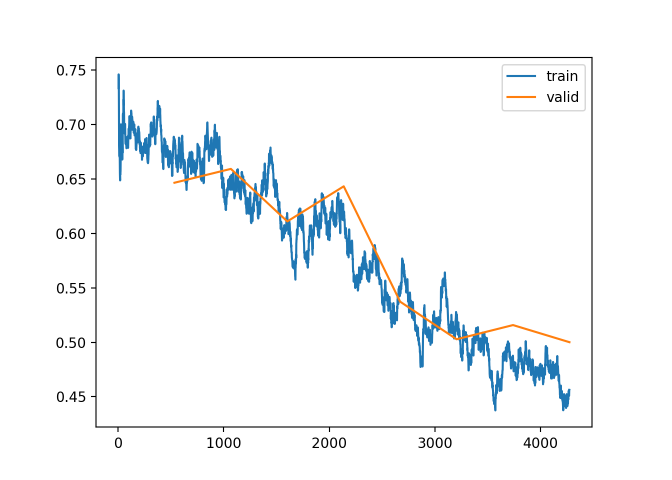
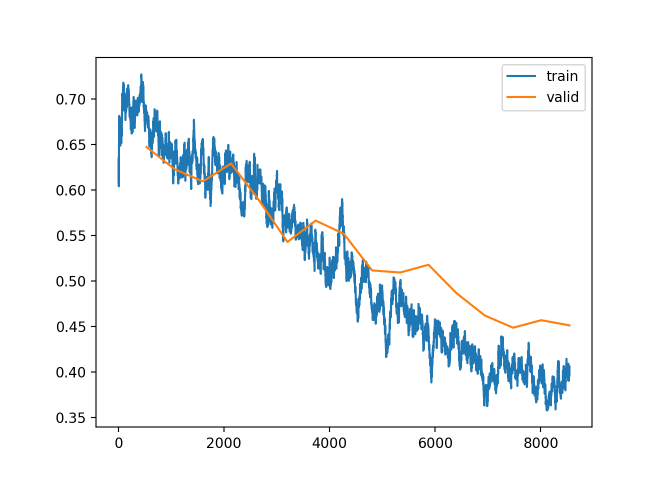
bug fastai

diff --git a/Xresnet.md b/Xresnet.md
@@ -1,7 +1,7 @@
-Xresnet
+Bug export
 ================
 
-# Resnext with R
+# Xresnet with R
 
 ``` r
 # This R environment comes with many helpful analytics packages installed
@@ -37,7 +37,24 @@ list.files(path = "../input")
 ```
 
 ``` r
-#devtools::install_github("henry090/fastai",dependencies=FALSE)
+devtools::install_github("henry090/fastai",dependencies=FALSE)
+```
+
+    ## Downloading GitHub repo henry090/fastai@HEAD
+
+    ##      checking for file ‘/tmp/RtmpdO4umF/remotesca1f0d394c/henry090-fastai-92744cf/DESCRIPTION’ ...  ✓  checking for file ‘/tmp/RtmpdO4umF/remotesca1f0d394c/henry090-fastai-92744cf/DESCRIPTION’
+    ##   ─  preparing ‘fastai’:
+    ##    checking DESCRIPTION meta-information ...  ✓  checking DESCRIPTION meta-information
+    ##   ─  checking for LF line-endings in source and make files and shell scripts (421ms)
+    ##   ─  checking for empty or unneeded directories
+    ##   ─  building ‘fastai_2.0.4.tar.gz’
+    ##      
+    ## 
+
+    ## Installing package into '/home/erolland/R/x86_64-pc-linux-gnu-library/4.0'
+    ## (as 'lib' is unspecified)
+
+``` r
 #fastai::install_fastai(gpu = TRUE)
 ```
 
@@ -140,7 +157,7 @@ dataloader %>% show_batch(dpi = 200, figsize = c(10, 10))
 ![](Xresnet_files/figure-gfm/unnamed-chunk-10-1.png)<!-- -->
 
 ``` r
-learnR <- dataloader %>% cnn_learner(xresnet50(), metrics = accuracy,  model_dir="Xresnet_files/") #prettier
+learnR <- dataloader %>% cnn_learner(xresnet50(), metrics = accuracy(),  model_dir="Xresnet_files/") #prettier
 ```
 
 To save computation power :
@@ -542,29 +559,37 @@ learnR %>% freeze()
     ## The model has been frozen
 
 ``` r
-learnR %>% fine_tune(epochs = 8, freeze_epochs = 8)
+learnR %>% fine_tune(epochs = 16, freeze_epochs = 8)
 ```
 
     ## epoch   train_loss   valid_loss   accuracy   time  
     ## ------  -----------  -----------  ---------  ------
-    ## 0       1.409996     1.005049     0.660902   01:54 
-    ## 1       1.064344     0.899811     0.678430   01:52 
-    ## 2       0.980241     0.854144     0.707876   01:52 
-    ## 3       0.892769     0.791412     0.706473   01:52 
-    ## 4       0.811332     0.763333     0.725169   01:52 
-    ## 5       0.807027     0.745718     0.720729   01:52 
-    ## 6       0.787391     0.732611     0.735219   01:51 
-    ## 7       0.738135     0.704353     0.734284   01:52 
-    ## epoch   train_loss   valid_loss   accuracy   time 
-    ## ------  -----------  -----------  ---------  -----
-    ## 0       0.683343     0.646418     0.758355   02:26 
-    ## 1       0.645743     0.659142     0.755784   02:26 
-    ## 2       0.614892     0.610919     0.774714   02:25 
-    ## 3       0.615299     0.643139     0.754849   02:26 
-    ## 4       0.549116     0.537235     0.802758   02:25 
-    ## 5       0.519960     0.502753     0.816780   02:26 
-    ## 6       0.487669     0.515773     0.811171   02:25 
-    ## 7       0.456326     0.500059     0.818883   02:26
+    ## 0       1.361343     0.921373     0.683571   01:53 
+    ## 1       1.077713     0.777055     0.718860   01:52 
+    ## 2       0.939034     0.795102     0.702734   01:52 
+    ## 3       0.884913     0.756387     0.724001   01:51 
+    ## 4       0.807232     0.787357     0.721430   01:52 
+    ## 5       0.821122     0.735426     0.727974   01:52 
+    ## 6       0.774428     0.750282     0.723534   01:52 
+    ## 7       0.740688     0.714056     0.733816   01:52 
+    ## epoch   train_loss   valid_loss   accuracy   time  
+    ## ------  -----------  -----------  ---------  ------
+    ## 0       0.675909     0.647314     0.757654   02:27 
+    ## 1       0.636141     0.622894     0.768170   02:26 
+    ## 2       0.651093     0.609446     0.776350   02:25 
+    ## 3       0.627111     0.629186     0.771442   02:24 
+    ## 4       0.614805     0.588353     0.783594   02:24 
+    ## 5       0.563212     0.542893     0.810470   02:24 
+    ## 6       0.551608     0.566400     0.791540   02:24 
+    ## 7       0.552029     0.551869     0.799953   02:24 
+    ## 8       0.472795     0.511617     0.819350   02:24 
+    ## 9       0.499718     0.509312     0.816312   02:24 
+    ## 10      0.445133     0.517810     0.817481   02:24 
+    ## 11      0.442019     0.486418     0.820051   02:24 
+    ## 12      0.373508     0.462007     0.835709   02:25 
+    ## 13      0.416595     0.448604     0.841785   02:24 
+    ## 14      0.391346     0.456869     0.837345   02:24 
+    ## 15      0.396088     0.451169     0.839215   02:24
 
 ``` r
 learnR %>% plot_loss(dpi = 200)
@@ -587,7 +612,7 @@ interp %>% plot_top_losses(k=12, dpi = 300, figsize = c(8, 5))
 ![](Xresnet_files/figure-gfm/unnamed-chunk-16-1.png)<!-- -->
 
 ``` r
-#learnR$export(fname = "Xresnet_files/")
+learnR$export(fname = "xresnet_50.pkl")
 ```
 
 ``` r
@@ -614,31 +639,36 @@ sessionInfo()
     ## [1] stats     graphics  grDevices utils     datasets  methods   base     
     ## 
     ## other attached packages:
-    ##  [1] fastai_2.0.3    forcats_0.5.0   stringr_1.4.0   dplyr_1.0.2    
+    ##  [1] fastai_2.0.4    forcats_0.5.0   stringr_1.4.0   dplyr_1.0.2    
     ##  [5] purrr_0.3.4     readr_1.4.0     tidyr_1.1.2     tibble_3.0.4   
     ##  [9] ggplot2_3.3.2   tidyverse_1.3.0
     ## 
     ## loaded via a namespace (and not attached):
-    ##  [1] Rcpp_1.0.5           lubridate_1.7.9.2    lattice_0.20-41     
-    ##  [4] png_0.1-7            assertthat_0.2.1     digest_0.6.27       
-    ##  [7] utf8_1.1.4           R6_2.5.0             cellranger_1.1.0    
-    ## [10] backports_1.2.1      reprex_0.3.0         evaluate_0.14       
-    ## [13] httr_1.4.2           highr_0.8            pillar_1.4.7        
-    ## [16] rlang_0.4.9          curl_4.3             readxl_1.3.1        
-    ## [19] data.table_1.13.4    rstudioapi_0.13      car_3.0-10          
-    ## [22] Matrix_1.2-18        reticulate_1.18-9000 rmarkdown_2.5       
-    ## [25] foreign_0.8-80       munsell_0.5.0        broom_0.7.2         
-    ## [28] compiler_4.0.2       modelr_0.1.8         xfun_0.19           
-    ## [31] pkgconfig_2.0.3      htmltools_0.5.0      tidyselect_1.1.0    
-    ## [34] rio_0.5.16           fansi_0.4.1          crayon_1.3.4        
-    ## [37] dbplyr_2.0.0         withr_2.3.0          ggpubr_0.4.0        
-    ## [40] rappdirs_0.3.1       grid_4.0.2           jsonlite_1.7.2      
-    ## [43] gtable_0.3.0         lifecycle_0.2.0      DBI_1.1.0           
-    ## [46] magrittr_2.0.1       scales_1.1.1         zip_2.1.1           
-    ## [49] carData_3.0-4        cli_2.2.0            stringi_1.5.3       
-    ## [52] ggsignif_0.6.0       fs_1.5.0             xml2_1.3.2          
-    ## [55] ellipsis_0.3.1       generics_0.1.0       vctrs_0.3.5         
-    ## [58] openxlsx_4.2.3       tools_4.0.2          glue_1.4.2          
-    ## [61] hms_0.5.3            abind_1.4-5          yaml_2.2.1          
-    ## [64] colorspace_2.0-0     rstatix_0.6.0        rvest_0.3.6         
-    ## [67] knitr_1.30           haven_2.3.1
+    ##  [1] fs_1.5.0             usethis_2.0.0        lubridate_1.7.9.2   
+    ##  [4] devtools_2.3.2       httr_1.4.2           rprojroot_2.0.2     
+    ##  [7] tools_4.0.2          backports_1.2.1      utf8_1.1.4          
+    ## [10] R6_2.5.0             DBI_1.1.0            colorspace_2.0-0    
+    ## [13] withr_2.3.0          tidyselect_1.1.0     prettyunits_1.1.1   
+    ## [16] processx_3.4.5       curl_4.3             compiler_4.0.2      
+    ## [19] cli_2.2.0            rvest_0.3.6          xml2_1.3.2          
+    ## [22] desc_1.2.0           scales_1.1.1         callr_3.5.1         
+    ## [25] rappdirs_0.3.1       digest_0.6.27        foreign_0.8-80      
+    ## [28] rmarkdown_2.5        rio_0.5.16           pkgconfig_2.0.3     
+    ## [31] htmltools_0.5.0      sessioninfo_1.1.1    dbplyr_2.0.0        
+    ## [34] highr_0.8            rlang_0.4.9          readxl_1.3.1        
+    ## [37] rstudioapi_0.13      generics_0.1.0       jsonlite_1.7.2      
+    ## [40] zip_2.1.1            car_3.0-10           magrittr_2.0.1      
+    ## [43] Matrix_1.2-18        Rcpp_1.0.5           munsell_0.5.0       
+    ## [46] fansi_0.4.1          abind_1.4-5          reticulate_1.18-9000
+    ## [49] lifecycle_0.2.0      stringi_1.5.3        yaml_2.2.1          
+    ## [52] carData_3.0-4        pkgbuild_1.1.0       grid_4.0.2          
+    ## [55] crayon_1.3.4         lattice_0.20-41      haven_2.3.1         
+    ## [58] hms_0.5.3            knitr_1.30           ps_1.5.0            
+    ## [61] pillar_1.4.7         ggpubr_0.4.0         ggsignif_0.6.0      
+    ## [64] pkgload_1.1.0        reprex_0.3.0         glue_1.4.2          
+    ## [67] evaluate_0.14        data.table_1.13.4    remotes_2.2.0       
+    ## [70] modelr_0.1.8         vctrs_0.3.5          png_0.1-7           
+    ## [73] testthat_3.0.0       cellranger_1.1.0     gtable_0.3.0        
+    ## [76] assertthat_0.2.1     xfun_0.19            openxlsx_4.2.3      
+    ## [79] broom_0.7.2          rstatix_0.6.0        memoise_1.1.0       
+    ## [82] ellipsis_0.3.1
